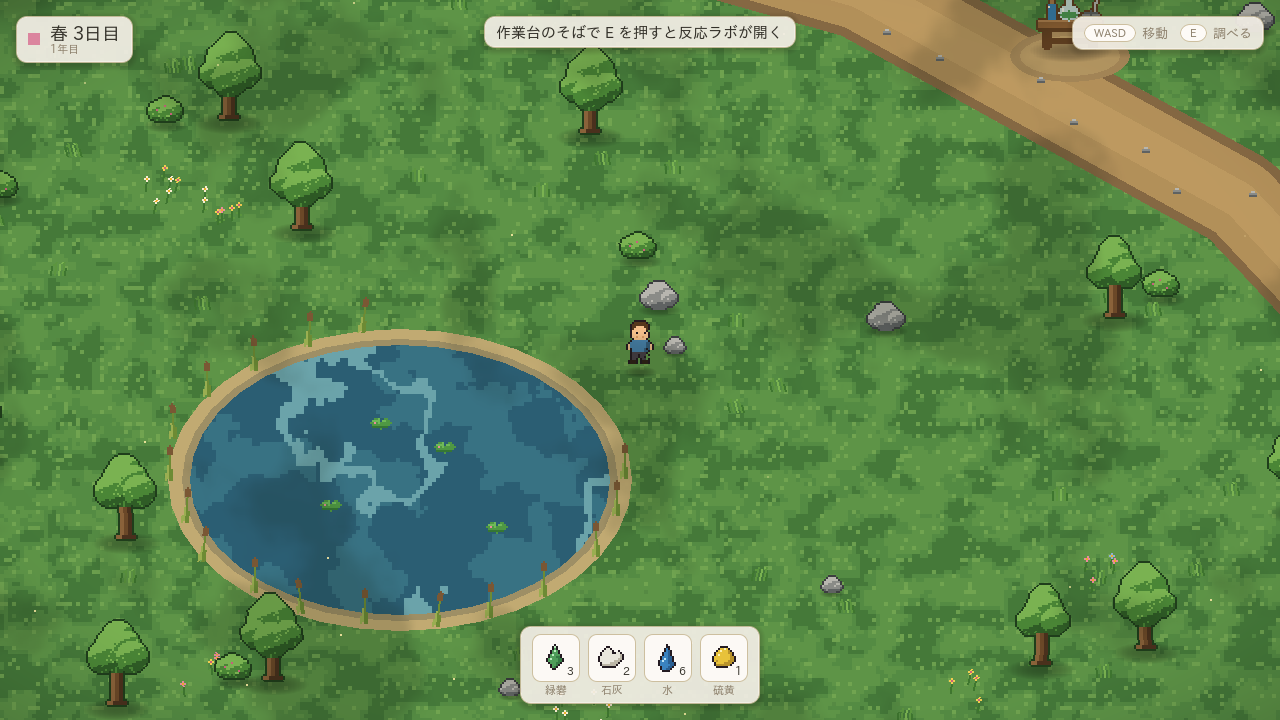
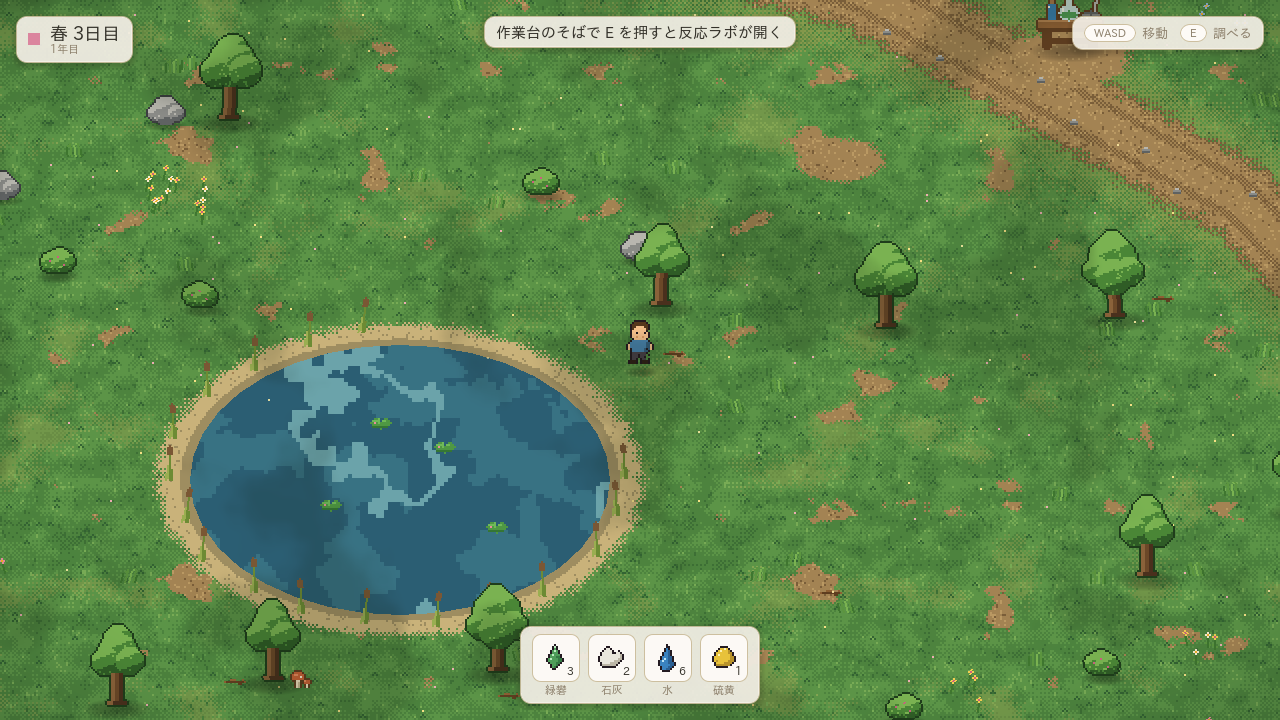
Enrich the ground with a dithered pixel-art terrain shader
地面を 1 ドット（2px）単位で「組版」するシェーダに置き換え、情報量を上げる。

- presentation/field/field.gd (GROUND_SHADER):
  - 草: 4 トーンをベイヤー法のディザで切り替え、乾いた場所は黄みに寄せる。
    葉の縦筋・クローバー・小さな野花をセルのハッシュで散らす
  - 土のパッチ: 低周波ノイズのしきい値をディザで縁取り、小石模様を乗せる
  - 小道: 線分までの距離で描く（ディザの縁・轍・縁の陰・踏み固められた帯）。
    Line2D の小道は廃止し、小石デカールだけ残す
  - 砂の岸: 池の楕円距離で描き、水際は湿って暗い。砂のポリゴンは廃止
  - 裸地: bare_spots uniform で作業台の足元と開始地点付近に描く。ポリゴンは廃止
  - 色は固定パレット（中間色を作らない）でスプライトと粒感・色調を揃える
- tools/gen_sprites.py: キノコと小枝のスプライトを追加。木陰にキノコ、草地に小枝を配置
- docs/prototypes, README: スクリーンショットと地面の説明を更新

Claude-Session: https://claude.ai/code/session_0156AyjmEWLzDazpLkJRx78j

diff --git a/tools/gen_sprites.py b/tools/gen_sprites.py
@@ -466,6 +466,40 @@ def prop_station():
     return cv.result()
 
 
+def prop_mushroom():
+    C = PROP_COLORS
+    cap = h("c9643c")
+    cap_hi = h("e8906a")
+    stem = h("efe6d2")
+    stem_lo = h("c9bda2")
+    cv = Canvas(11, 9)
+    # 大きいキノコ。
+    cv.rect(1, 2, 6, 3, cap)
+    cv.rect(2, 1, 4, 1, cap)
+    cv.rect(2, 2, 2, 1, cap_hi)
+    cv.put(5, 3, C["white"])
+    cv.rect(3, 5, 2, 4, stem)
+    cv.rect(4, 6, 1, 3, stem_lo)
+    # 小さいキノコ。
+    cv.rect(7, 5, 3, 2, cap)
+    cv.put(7, 5, cap_hi)
+    cv.rect(8, 7, 1, 2, stem)
+    cv.outline(h("5e3f23"))
+    return cv.result()
+
+
+def prop_twig():
+    C = PROP_COLORS
+    cv = Canvas(12, 5)
+    cv.rect(1, 2, 9, 1, C["wood_lo"])
+    cv.rect(3, 1, 3, 1, C["wood"])
+    cv.rect(7, 3, 2, 1, C["wood_lo"])
+    cv.put(9, 1, C["wood"])
+    cv.put(10, 2, C["wood"])
+    cv.put(0, 2, C["wood"])
+    return cv.result()
+
+
 def generate_props():
     """名前 → (w, h, px)。Godot 側のファイル名（prop_*.png）と一致させる。"""
     out = {}
@@ -481,6 +515,8 @@ def generate_props():
     out["prop_reed"] = prop_reed()
     out["prop_pebble"] = prop_pebble()
     out["prop_station"] = prop_station()
+    out["prop_mushroom"] = prop_mushroom()
+    out["prop_twig"] = prop_twig()
     return out
 
 

diff --git a/README.md b/README.md
@@ -98,7 +98,10 @@ unzip godot.zip
 - **採取マップを歩ける**（`CharacterBody2D` による8方向移動・カメラ追従・木や岩との衝突）
   - 見た目はキャラクターと同じ「ドット絵を Nearest で 2 倍」に統一。木・岩・茂み・草・花・葦・
     睡蓮・小石・作業台は `tools/gen_sprites.py` が手続き生成する PNG（`assets/sprites/prop_*.png`）
-  - 地面は低コントラストでピクセル化した草地シェーダ、池は波の筋が流れるピクセル水面シェーダ
+  - 地面は 1 ドット単位で「組版」するシェーダ: 4 トーンの草をベイヤー法のディザで切り替え、
+    葉の筋・クローバー・野花・乾いた草地・土のパッチを散らす。小道（轍・縁の陰・踏み固められた帯）、
+    砂の岸（水際は湿って暗い）、作業台の足元の裸地も同じシェーダが固定パレットで描く
+  - 池は波の筋が流れるピクセル水面シェーダ
   - 木・茂み・草・花は風で揺れ（頂点シェーダ）、雲の影がゆっくり流れ、花粉が漂う
   - 将来は `TileMapLayer` + `TileSet` や本物のスプライトに差し替え可能（設計書 §8）
 - **フィールド HUD（仮）**: 季節・日付カード、素材ポーチ（所持数）、操作ヒント、作業台に近づくと出る
